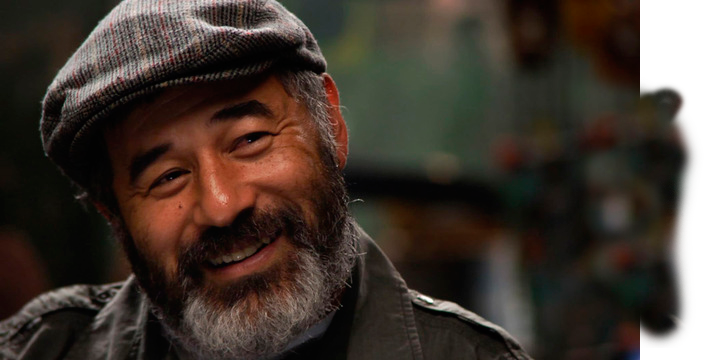
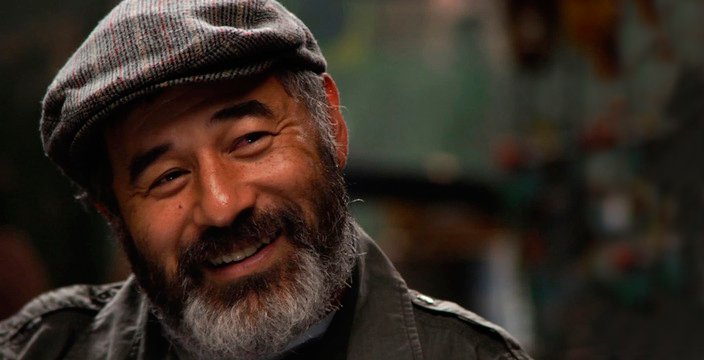
solved issue with neat grid of image highlights

Changed region(s): [[0.875, 0.0, 1.0, 1.0]]

diff --git a/index.html b/index.html
@@ -39,6 +39,9 @@
     <header class="hero-slider">
       <ul><li><img src="assets/top-image.png" class="slide"alt="" /></li></ul>
         <!-- radio buttons will go here for image slides -->
+        <div class="grid-overlay">
+          <img src="assets/grid.png" alt="" />
+        </div>
         <div class="logo">
           <img src="assets/peralta-logo.png" alt="" />
         </div>
@@ -48,17 +51,10 @@
       <input type="radio" name="name" value="">
       <input type="radio" name="name" value="">
     </div>
+    <main class="highlights">
     <article class="highlight">
       <h2>Tony Hawk Foundation Raises Big Money At Celeb Fundraiser</h2>
       <span class="date">October 10, 2013</span>
-      <p>
-        Lorem ipsum dolor sit amet, consectetur adipisicing elit, sed do eiusmod tempor incididunt ut labore et dolore magna aliqua. Ut enim ad minim veniam, quis nostrud exercitation ullamco laboris nisi ut aliquip ex ea commodo consequat. Duis aute irure dolor in reprehenderit in voluptate velit esse cillum dolore eu fugiat nulla pariatur. Excepteur sint occaecat cupidatat non proident, sunt in culpa qui officia deserunt mollit anim id est laborum.
-      </p>
-      <a href="#">[ READMORE ]</a>
-    </article>
-    <article class="highlight">
-      <h2>Tony Hawk Foundation Raises Big Money At Celeb Fundraiser</h2>
-      <span class="date">March 10, 2013</span>
       <p>
         Lorem ipsum dolor sit amet, consectetur adipisicing elit, sed do eiusmod tempor incididunt ut labore et dolore magna aliqua. Ut enim ad minim veniam, quis nostrud exercitation ullamco laboris nisi ut aliquip ex ea commodo consequat. Duis aute irure dolor in reprehenderit in voluptate velit esse cillum dolore eu fugiat nulla pariatur. Excepteur sint occaecat cupidatat non proident, sunt in culpa qui officia deserunt mollit anim id est laborum.
       </p>
@@ -66,7 +62,7 @@
     </article>
     <article class="highlight">
       <h2>Rodney Mullen: Pop an ollie and innovate! (Ted Talk)</h2>
-      <span class="date">October 4, 2013</span>
+      <span class="date">March 10, 2013</span>
       <p>
         Lorem ipsum dolor sit amet, consectetur adipisicing elit, sed do eiusmod tempor incididunt ut labore et dolore magna aliqua. Ut enim ad minim veniam, quis nostrud exercitation ullamco laboris nisi ut aliquip ex ea commodo consequat. Duis aute irure dolor in reprehenderit in voluptate velit esse cillum dolore eu fugiat nulla pariatur. Excepteur sint occaecat cupidatat non proident, sunt in culpa qui officia deserunt mollit anim id est laborum.
       </p>
@@ -74,12 +70,15 @@
     </article>
     <article class="highlight">
       <h2>Ray Barbee Talks 'Ban This'</h2>
-      <span class="date">October 10, 2013</span>
+      <span class="date">October 4, 2013</span>
       <p>
-        Lorem ipsum dolor sit amet, consectetur adipisicing elit, sed do eiusmod tempor incididunt ut labore et dolore magna aliqua. Ut enim ad minim veniam, quis nostrud exercitation ullamco laboris nisi ut aliquip ex ea commodo consequat. Duis aute irure dolor in reprehenderit in voluptate velit esse cillum dolore eu fugiat nulla pariatur. Excepteur sint occaecat cupidatat non proident, sunt in culpa qui officia deserunt mollit anim id est laborum.
+        Lorem ipsum dolor sit amet, consectetur adipisicing elit, sed do eiusmod tempor incididunt ut labore et dolore magna aliqua. Ut enim ad minim veniam, quis nostrud exercitation ullamco laboris nisi ut aliquip ex ea commodo consequat. Duis aute irure dolor in reprehenderit in voluptate velit esse cillum dolore eu fugiat nulla pariatur. Excepteur sint occaecat cupidatat non proident, sunt in culpa qui officia deserunt mollit anim id est laborum. Y unis plurubum pizza.
       </p>
       <a href="#">[ READMORE ]</a>
     </article>
+  </main>
+  <div class="image-highlights">
+    <!-- <div class="side-by-side"> -->
     <aside class="image-standard imagehl">
       <a href="">
         <img src="assets/sk8er-4.png" alt="" />
@@ -92,18 +91,20 @@
         <h4>RODNEY MULLEN</h4>
       </a>
     </aside>
+    <!-- </div> -->
     <aside class="image-vertical imagehl">
       <a href="">
-        <img src="assets/sk8er-1.png" alt="" />
+        <img src="assets/sk8er-2.png" alt="" />
         <h4>TOMMY GUERRERO</h4>
       </a>
     </aside>
     <aside class="image-horizontal imagehl">
       <a href="">
-        <img src="assets/sk8er-2.png" alt="" />
+        <img src="assets/sk8er-1.png" alt="" />
         <h4>STEVE CABALLERO</h4>
       </a>
     </aside>
+  </div>
     <aside class="board-block">
       <ul>
         <li><img src="assets/sk8-1.png" alt="" /></li>

diff --git a/styles/_navs.scss b/styles/_navs.scss
@@ -1,22 +1,31 @@
 .main-menu {
   text-align: center;
-  margin: 1rem auto;
-  font-size: 1rem;
+  // margin: 1rem auto;
+  // font-size: 1rem;
   font-weight: lighter;
+  @include outer-container;
   ul {
+    @include clearfix;
   }
-  li {
+  .menu-option {
     @include shadow;
     text-align: center;
-    display: inline-block;
+    // display: inline-block;
     background: #B4292E;
-    width: 15rem;
+    // @include span-columns(4);
+    // @include omega(4n);
+    // width: 15rem;
     padding: .5rem 0;
-    margin: 0.2rem 0;
-    transition: all .3s;
+    // margin: 0.2rem 0;
+    // transition: all .3s;
   }
   a {
     color: white;
+    @include clearfix;
+    @include span-columns(3);
+    @include omega(4n);
+    padding: .5rem 0;
+
   }
   // .menu-option {
   //   opacity: 0;
@@ -30,6 +39,15 @@
 
 @media (min-width: $flex-width) {
   .main-menu {
+    ul {
+    // @include outer-container;
+    @include clearfix;
+    }
+    // .menu-option {
+    //   @include span-columns(3);
+    //   @include omega(4n);
+    //   // display: block;
+    // }
   }
 }
 

diff --git a/styles/_image-highlights.scss b/styles/_image-highlights.scss
@@ -15,6 +15,9 @@
     font-size: 4.5rem;
     font-weight: 600;
   }
+  a {
+    @include clearfix;
+  }
   a:hover h4 {
     color: $color-hover;
   }
@@ -33,5 +36,46 @@
   li {
     @include span-columns(2 of 10);
     @include omega(5n);
+  }
+}
+
+@media (min-width: $flex-width) {
+  .image-highlights {
+    @include outer-container;
+  }
+  .imagehl {
+    h4 {
+      font-size: 2rem;
+    }
+    @include span-columns(4);
+    @include omega(3n);
+    height: 10rem;
+    overflow: hidden;
+  }
+  .image-standard img {
+    width: 150%;
+  }
+  .imagehl.image-vertical {
+    height: 21rem;
+    display: inline-block;
+    position: relative;
+    float: right;
+    img {
+      width: 275%;
+      position: absolute;
+      left: -19rem;
+      bottom: 0;
+    }
+  }
+  .image-horizontal {
+    @include span-columns(8);
+    clear: right;
+    height: 10rem;
+    position: relative;
+      img {
+        position: absolute;
+        left: 0rem;
+        bottom: -1rem;
+      }
   }
 }

diff --git a/styles/_social.scss b/styles/_social.scss
@@ -12,17 +12,17 @@
     margin: 0 auto;
     padding: .25rem 0;
     }
-  h5::after {
-    position: absolute;
-    content: "";
-    width: .1rem;
-    height: .1rem;
-    border-radius: 50%;
-    background-color: white;
-    top: 50%;
-    left: 4rem;
-    transform: translate(-50%);
-  }
+  // h5::after {
+  //   position: absolute;
+  //   content: "";
+  //   width: .1rem;
+  //   height: .1rem;
+  //   border-radius: 50%;
+  //   background-color: white;
+  //   top: 50%;
+  //   left: -2rem;
+  //   transform: translate(-50%);
+  // }
   li {
     @include under-border;
     display: inline-block;
@@ -53,4 +53,11 @@
   .youtube {
     background: $color-youtube;
   }
+}
+
+@media (min-width: $flex-width) {
+  .social_media {
+    @include span-columns(12);
+  }
+
 }

diff --git a/styles/_articles.scss b/styles/_articles.scss
@@ -3,12 +3,29 @@
   @include article-linx;
   background: white;
   margin: .5rem 0;
-  padding: 1rem;
+  padding: .5rem;
   font-size: 1.5rem;
   h2 {
-    margin: .5rem 0;
+    margin: 0;
+    padding: 0;
   }
   .date {
     color: #a1a1a1;
+  }
+}
+
+@media (min-width: $flex-width) {
+  .highlight {
+    @include span-columns(4);
+    @include omega(3n);
+    font-size: .5rem;
+    // height: 20rem;
+    padding: 0 .5rem;
+
+    h2 {
+      font-size: 1.25rem;
+      font-weight: 300;
+
+    }
   }
 }

diff --git a/styles/_hero.scss b/styles/_hero.scss
@@ -1,11 +1,14 @@
 .hero-slider {
   position: relative;
   @include border-white;
+  @include clearfix;
+  // height: 7rem;
   li {
     @include clearfix;
   }
   li img {
     float: left;
+    overflow: hidden;
   }
   .logo {
     position: absolute;
@@ -13,4 +16,11 @@
     bottom: 1rem;
     width: 45%;
     }
+  .grid-overlay {
+    position: absolute;
+    left: 0;
+    bottom: -3px;
+    width: 100%;
+    float: left;
   }
+}
